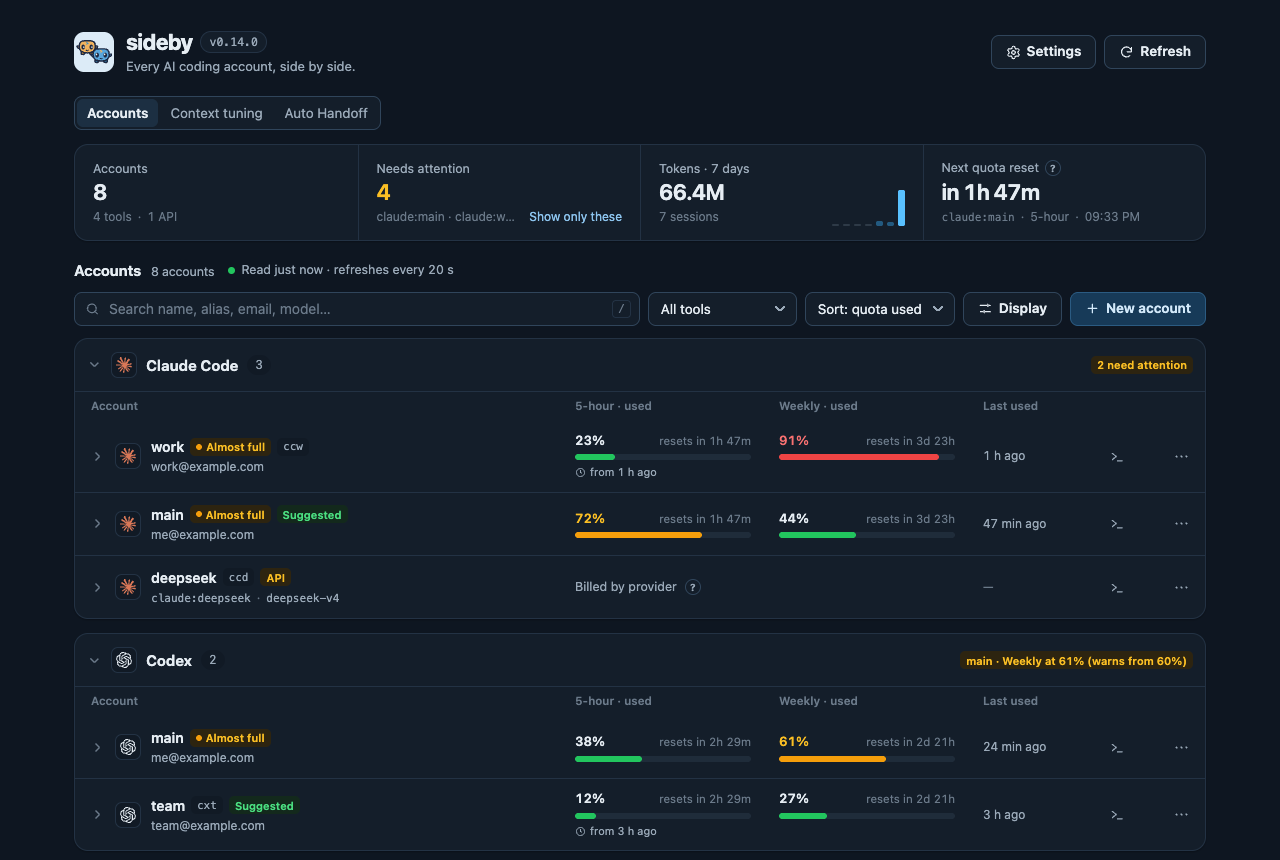
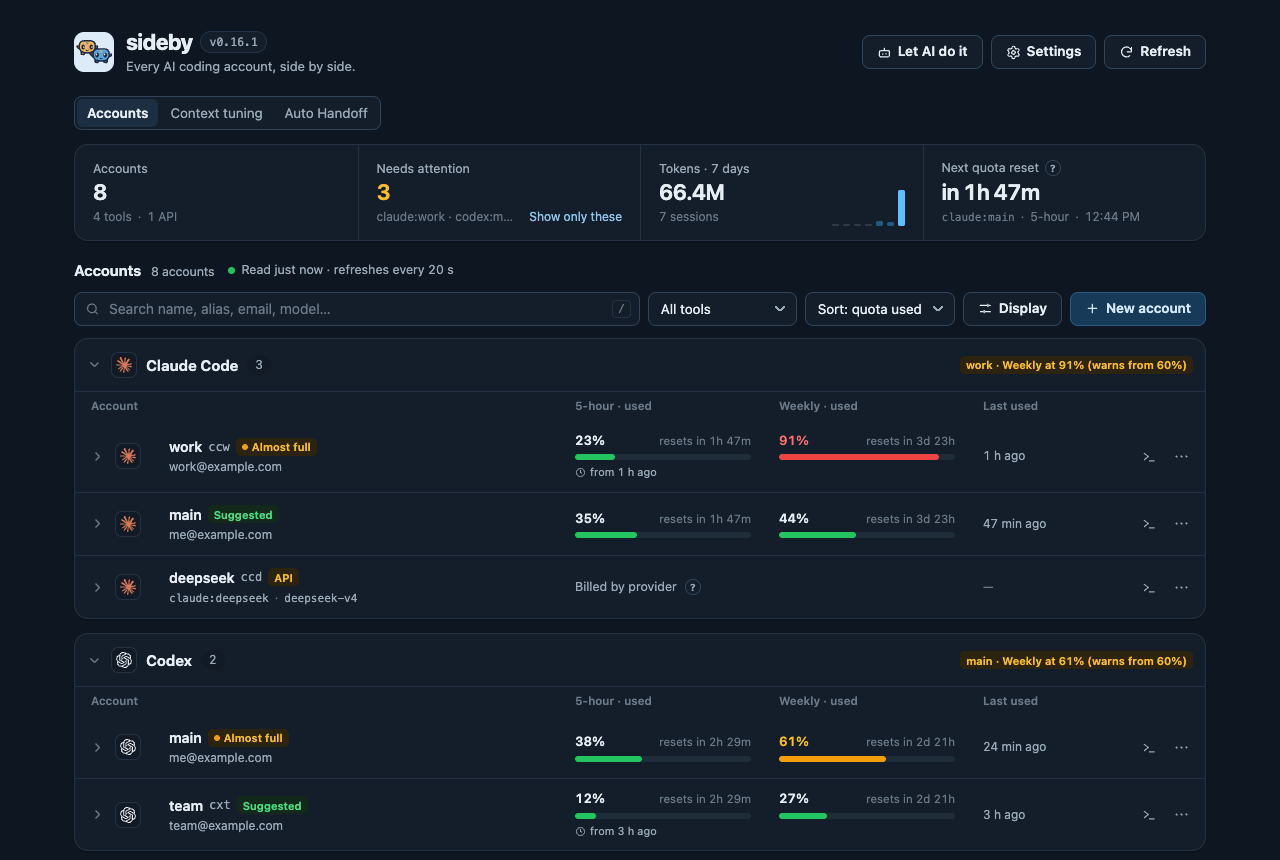
📝 docs(readme): retake the panel screenshots and demo GIF, and list start at login
The demo's claude:main now sits at 35% of its five hours, so with one status per row it shows Suggested again and the GIF's handoff story (work at 91%, next up main) still reads.

diff --git a/scripts/demo-home.ts b/scripts/demo-home.ts
@@ -316,7 +316,7 @@ if (variant !== 'empty') {
         { label: '7d', windowMinutes: 10080, usedPercent: seven, resetsAt: iso(96 * H) },
       ],
     })
-  await write('.local/state/sideby/quota/claude/main.json', cache(72, 44, 0.2 * H))
+  await write('.local/state/sideby/quota/claude/main.json', cache(35, 44, 0.2 * H))
   await write('.local/state/sideby/quota/claude/work.json', cache(23, 91, 1.1 * H))
   const wrapped = JSON.stringify(
     { model: 'opus', statusLine: { type: 'command', command: 'sideby statusline-tap' } },

diff --git a/README.md b/README.md
@@ -73,6 +73,7 @@ cc-switch's docs describe that switch: it writes the live settings file ([README
 | You want to | Run | Guide |
 |---|---|---|
 | Hand a task to your own AI from the panel: set up an account, fix a problem, support a new tool | **Let AI do it** in the panel, or `sideby ask` | [Let AI do it](docs/guide/panel.md#let-ai-do-it) |
+| Have the panel ready in the background whenever you log in | **Settings › Startup** in the panel, or `sideby autostart on` | [Start at login](docs/guide/usage.md#start-at-login) |
 | Add an API key account (DeepSeek, a gateway, …) | `sideby new claude deepseek --api` | [API accounts](docs/guide/usage.md#api-accounts) |
 | Find and fix config drift between accounts | `sideby doctor --fix` | [Doctor](docs/guide/usage.md#doctor) |
 | See Claude quota (Codex needs no setup) | `sideby quota setup claude --yes` | [Claude quota](docs/guide/usage.md#claude-quota) |
